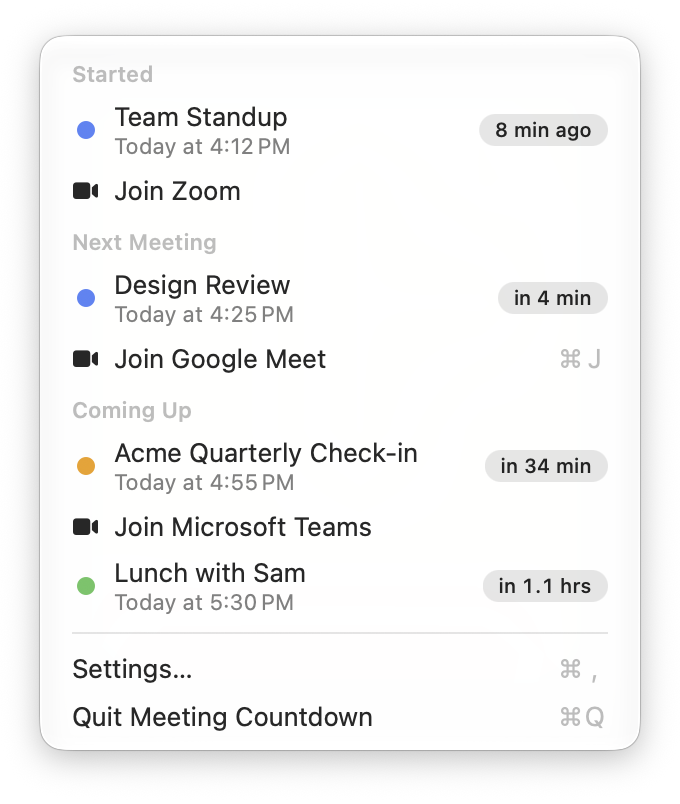
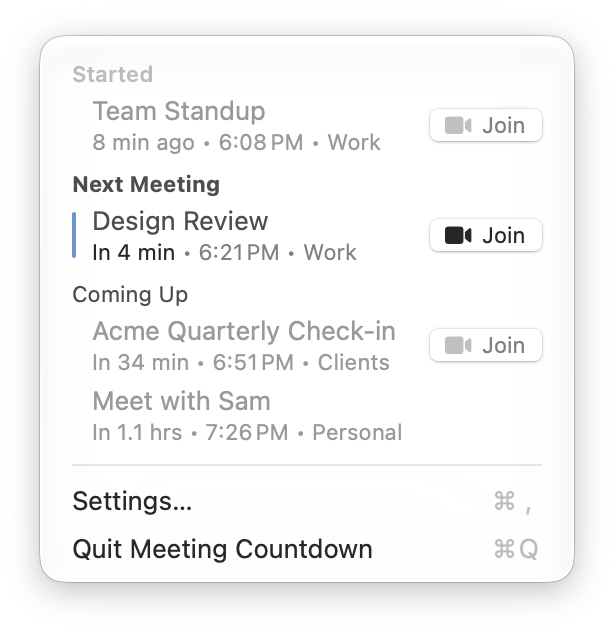
Re-capture the menu screenshot for the redesigned rows

diff --git a/README.md b/README.md
@@ -19,7 +19,7 @@ Click "join" to join a video chat link if there is one.
 * It works with the calendars your Mac already has, so there's nothing to sign in to or set up, just grant calendar access.
 * You can configure video chat link preferences per-calendar and have it prefer a specific Chrome profile or the Google Meet app.
 * It can open at login (Settings → Open at login).
-* The Menu Bar provides a snapshot into your meetings from 30 mins ago to 1.5 hrs into the future. <img src="docs/images/menu.png" alt="The menu listing a meeting that started 8 minutes ago, the next meeting in 4 minutes, and two more coming up, each with a Join item" width="340">
+* The Menu Bar provides a snapshot into your meetings from 30 mins ago to 1.5 hrs into the future. <img src="docs/images/menu.png" alt="The menu listing a meeting that started 8 minutes ago, the next meeting in 4 minutes, and two more coming up, with Join buttons on the meetings that have a call" width="307">
 
 ## Requirements
 
